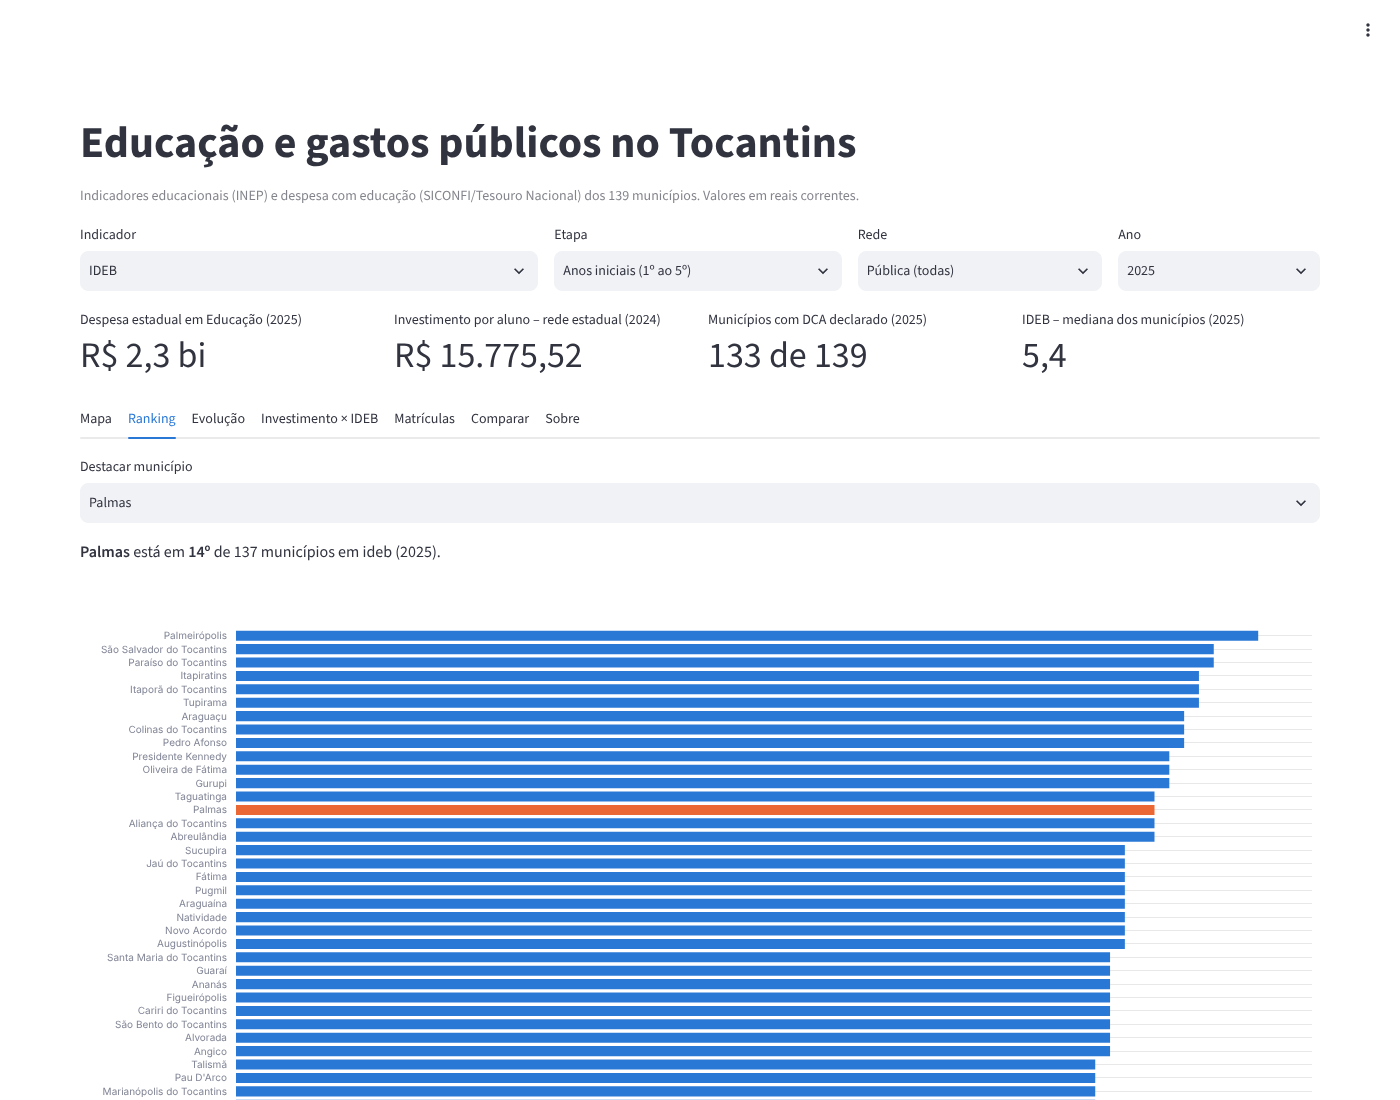
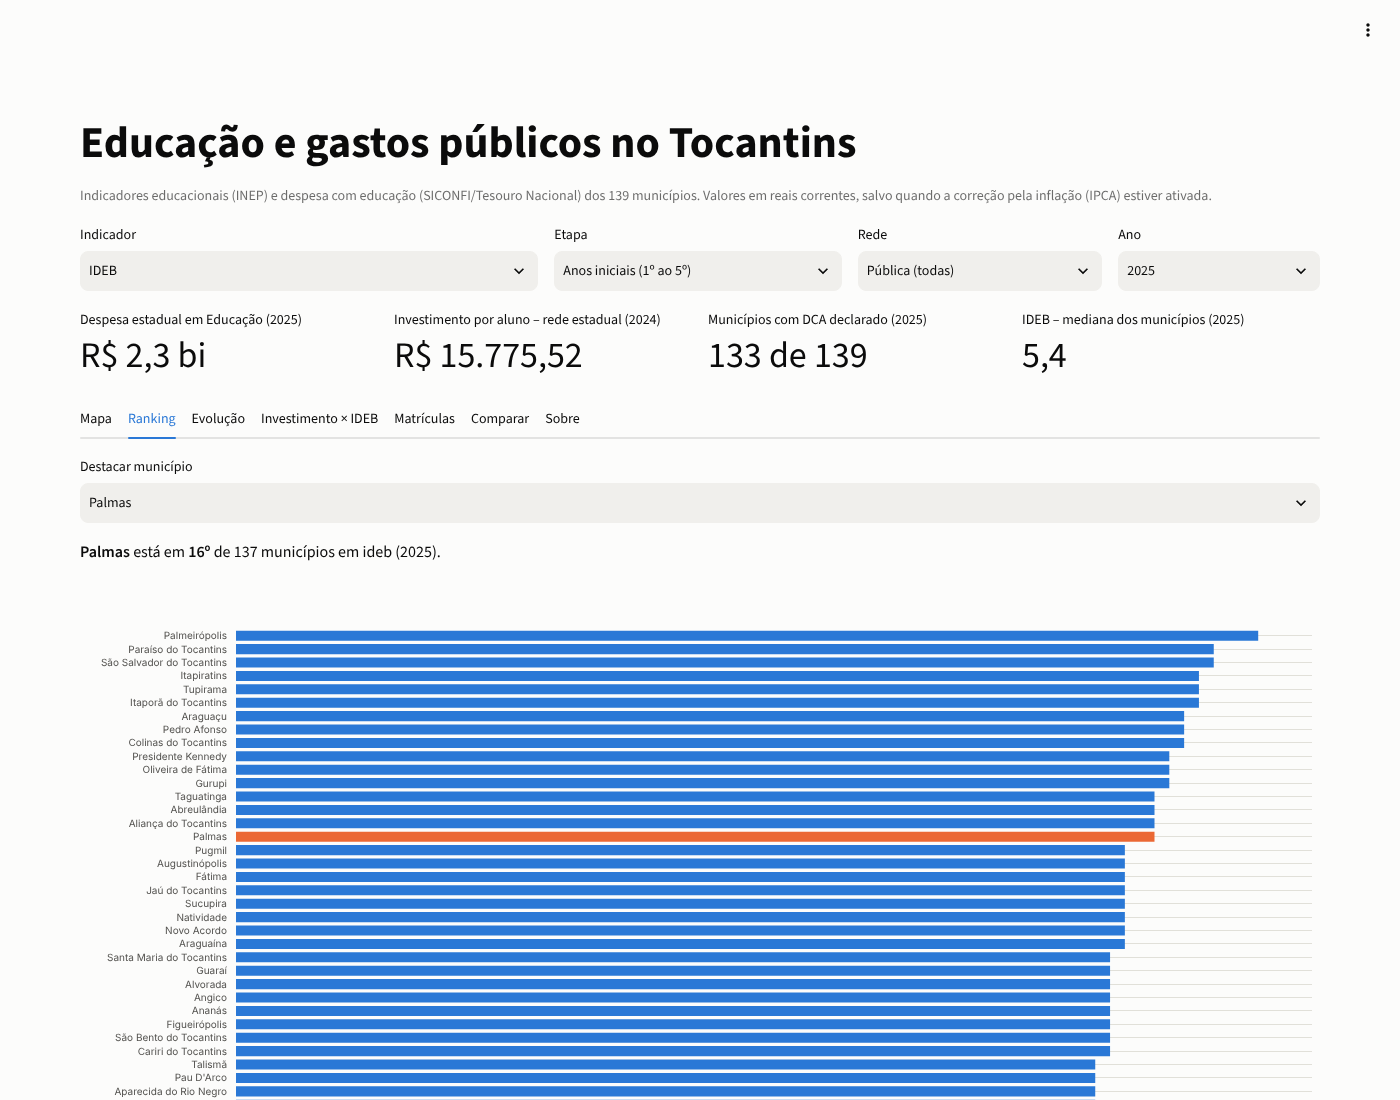
feat(painel): modo escuro com cores validadas
- app/tema.py: paletas clara e escura (categóricas em ordem fixa, rampa
  sequencial com âncora invertida no escuro, tintas e grades por modo),
  validadas com o validador de paletas
- painel lê st.context.theme e aplica o tema em todos os gráficos; mapa com
  fundo MapLibre na cor da superfície (sem tiles externos)
- .streamlit/config.toml com superfícies e tintas por modo
- rótulos dentro das barras em 19 px negrito (o azul claro tem 4,46:1)
- capturas nos dois modos; testes de contraste e da rampa

Claude-Session: https://claude.ai/code/session_01RJwzVpxwH6RxEcpT1TuGAa

diff --git a/app/painel.py b/app/painel.py
@@ -17,14 +17,21 @@ sys.path.insert(0, str(Path(__file__).parent))
 
 import dados
 import indicadores as ind
+import tema
 
 st.set_page_config(page_title="Educação no Tocantins", page_icon="📊", layout="wide")
 
-# Paleta: sequencial azul para magnitude; categóricas em ordem fixa.
-AZUL_SEQUENCIAL = ["#cde2fb", "#9ec5f4", "#6da7ec", "#3987e5", "#256abf", "#184f95", "#0d366b"]
-SERIE_1, SERIE_2, SERIE_3, SERIE_4 = "#2a78d6", "#eb6834", "#1baf7a", "#eda100"
-CINZA = "#b9b8b2"
-CORES_REDE = {"federal": SERIE_1, "estadual": SERIE_2, "municipal": SERIE_3, "privada": SERIE_4}
+# Cores do modo ativo (claro/escuro), validadas em app/tema.py.
+T = tema.para(getattr(st.context.theme, "type", None))
+SERIE_1, SERIE_2, SERIE_3, SERIE_4 = T.serie
+CINZA = T.neutro
+CORES_REDE = T.cores_rede
+#: Estilo MapLibre só com fundo na cor da superfície (sem tiles externos).
+ESTILO_MAPA = {
+    "version": 8,
+    "sources": {},
+    "layers": [{"id": "fundo", "type": "background", "paint": {"background-color": T.superficie}}],
+}
 
 
 def layout(fig: go.Figure, altura: int = 420) -> go.Figure:
@@ -32,8 +39,10 @@ def layout(fig: go.Figure, altura: int = 420) -> go.Figure:
         height=altura,
         margin={"l": 8, "r": 8, "t": 48, "b": 8},
         separators=",.",
-        font={"family": "Inter, system-ui, sans-serif", "size": 13},
+        font={"family": "Inter, system-ui, sans-serif", "size": 13, "color": T.texto},
         hoverlabel={"font_size": 13},
+        paper_bgcolor="rgba(0,0,0,0)",
+        plot_bgcolor="rgba(0,0,0,0)",
         legend={
             "orientation": "h",
             "y": 1.02,
@@ -41,10 +50,15 @@ def layout(fig: go.Figure, altura: int = 420) -> go.Figure:
             "x": 0,
             "title": None,
             "traceorder": "normal",
+            "font": {"color": T.texto_secundario},
         },
     )
-    fig.update_xaxes(showgrid=False, linewidth=1, linecolor="rgba(128,128,128,.35)")
-    fig.update_yaxes(gridcolor="rgba(128,128,128,.18)", gridwidth=1, zeroline=False)
+    fig.update_xaxes(
+        showgrid=False, linewidth=1, linecolor=T.eixo, tickfont={"color": T.texto_secundario}
+    )
+    fig.update_yaxes(
+        gridcolor=T.grade, gridwidth=1, zeroline=False, tickfont={"color": T.texto_secundario}
+    )
     return fig
 
 
@@ -147,17 +161,24 @@ with abas[0]:
         geojson=d["geojson"],
         locations="cod_municipio",
         color="valor",
-        color_continuous_scale=AZUL_SEQUENCIAL,
+        color_continuous_scale=list(T.sequencial),
         hover_name="nome_municipio",
         hover_data={"cod_municipio": False, "valor": definicao.formato_hover},
         labels={"valor": definicao.rotulo_curto},
-        map_style="white-bg",  # sem mapa de fundo: nenhum serviço externo de tiles
+        map_style="white-bg",  # trocado abaixo pelo fundo do tema; sem tiles externos
         center={"lat": -10.2, "lon": -48.3},
         zoom=5.6,
         opacity=0.95,
     )
-    fig.update_traces(marker_line_width=0.6, marker_line_color="white")
-    fig.update_layout(coloraxis_colorbar={"title": None, "thickness": 12})
+    fig.update_traces(marker_line_width=0.6, marker_line_color=T.superficie)
+    fig.update_layout(map_style=ESTILO_MAPA)
+    fig.update_layout(
+        coloraxis_colorbar={
+            "title": None,
+            "thickness": 12,
+            "tickfont": {"color": T.texto_secundario},
+        }
+    )
     sufixo = f" — valores corrigidos pelo IPCA, R$ de {ano_base}" if valores_reais else ""
     st.subheader(f"{indicador} em {ano}{sufixo}")
     st.plotly_chart(layout(fig, 760), width="stretch")
@@ -189,7 +210,7 @@ with abas[1]:
         abaixo = int((ordenado["valor"] < definicao.referencia).sum())
         fig.add_vline(
             x=definicao.referencia,
-            line={"color": "#52514e", "width": 1.5},
+            line={"color": T.texto_secundario, "width": 1.5},
             annotation_text=f"mínimo legal: {ind.numero(definicao.referencia, 0)}%",
             annotation_position="top",
         )
@@ -264,7 +285,7 @@ with abas[3]:
                         "color": cor,
                         "size": tamanho,
                         "opacity": 0.85,
-                        "line": {"width": 1.5, "color": "white"},
+                        "line": {"width": 1.5, "color": T.superficie},
                     },
                     hovertemplate=(
                         "%{text}<br>R$ %{x:,.0f} por aluno<br>IDEB %{y:.1f}<extra></extra>"
@@ -306,16 +327,19 @@ with abas[4]:
                 y=[""],
                 orientation="h",
                 name=r.capitalize(),
-                marker={"color": CORES_REDE[r], "line": {"width": 2, "color": "white"}},
+                marker={"color": CORES_REDE[r], "line": {"width": 2, "color": T.superficie}},
                 hovertemplate=(
                     f"{r.capitalize()}: {ind.numero(valor)} matrículas "
                     f"({ind.numero(100 * participacao, 1)}%)<extra></extra>"
                 ),
                 # rótulo direto só nos segmentos largos o bastante para lê-lo
-                text=[f"{ind.numero(100 * participacao, 0)}%" if participacao >= 0.08 else ""],
+                text=[
+                    f"<b>{ind.numero(100 * participacao, 0)}%</b>" if participacao >= 0.08 else ""
+                ],
                 textposition="inside",
                 insidetextanchor="middle",
-                textfont={"color": "#0b0b0b", "size": 14},
+                # texto grande e em negrito: a WCAG exige 3:1, atendido em todas as cores
+                textfont={"color": T.rotulo_em_preenchimento, "size": 19},
             )
         )
     fig.update_layout(

diff --git a/app/tema.py b/app/tema.py
@@ -1,0 +1,75 @@
+"""Cores do painel para os modos claro e escuro.
+
+Valores da paleta de referência de visualização (categórica em ordem fixa,
+sequencial azul, tinta e linhas de grade por modo). As quatro cores das redes
+foram validadas nos dois modos com o validador de paletas (faixa de
+luminosidade, croma, separação para daltonismo e contraste com o fundo):
+
+- claro, fundo #fcfcfb: tudo passa; verde-água e amarelo ficam abaixo de 3:1
+  de contraste, compensados por rótulos diretos e tabela no gráfico de matrículas;
+- escuro, fundo #1a1a19: tudo passa, inclusive contraste >= 3:1.
+
+O modo escuro não é uma inversão automática: cada cor tem o seu passo próprio
+na mesma rampa, e a escala sequencial inverte a âncora (valores baixos se
+aproximam do fundo escuro, valores altos ficam claros).
+"""
+
+from __future__ import annotations
+
+from dataclasses import dataclass
+
+
+@dataclass(frozen=True)
+class Tema:
+    nome: str
+    #: Categóricas em ordem fixa: slots 1 a 4 (azul, laranja, verde-água, amarelo).
+    serie: tuple[str, str, str, str]
+    #: Rampa sequencial do menor para o maior valor (mapa).
+    sequencial: tuple[str, ...]
+    #: Linha de referência neutra (mediana, mínimo legal).
+    neutro: str
+    texto: str
+    texto_secundario: str
+    grade: str
+    eixo: str
+    superficie: str
+    #: Texto escrito dentro de barras coloridas (usar grande e em negrito: o azul
+    #: do modo claro tem 4,46:1 com preto, abaixo dos 4,5:1 de texto normal).
+    rotulo_em_preenchimento: str
+
+    @property
+    def cores_rede(self) -> dict[str, str]:
+        return dict(zip(("federal", "estadual", "municipal", "privada"), self.serie, strict=True))
+
+
+CLARO = Tema(
+    nome="claro",
+    serie=("#2a78d6", "#eb6834", "#1baf7a", "#eda100"),
+    sequencial=("#cde2fb", "#9ec5f4", "#6da7ec", "#3987e5", "#256abf", "#184f95", "#0d366b"),
+    neutro="#898781",
+    texto="#0b0b0b",
+    texto_secundario="#52514e",
+    grade="#e1e0d9",
+    eixo="#c3c2b7",
+    superficie="#fcfcfb",
+    rotulo_em_preenchimento="#0b0b0b",
+)
+
+ESCURO = Tema(
+    nome="escuro",
+    serie=("#3987e5", "#d95926", "#199e70", "#c98500"),
+    # âncora invertida: o menor valor fica perto do fundo escuro
+    sequencial=("#104281", "#184f95", "#256abf", "#3987e5", "#6da7ec", "#9ec5f4", "#cde2fb"),
+    neutro="#898781",
+    texto="#f0efec",
+    texto_secundario="#c3c2b7",
+    grade="#2c2c2a",
+    eixo="#383835",
+    superficie="#1a1a19",
+    rotulo_em_preenchimento="#0b0b0b",
+)
+
+
+def para(tipo: str | None) -> Tema:
+    """Tema para o tipo informado pelo Streamlit (``"dark"``/``"light"``; padrão claro)."""
+    return ESCURO if tipo == "dark" else CLARO

diff --git a/tests/test_tema.py b/tests/test_tema.py
@@ -1,0 +1,50 @@
+import sys
+from pathlib import Path
+
+sys.path.insert(0, str(Path(__file__).resolve().parents[1] / "app"))
+
+import tema
+
+
+def _luminancia(hexa: str) -> float:
+    canais = [int(hexa[i : i + 2], 16) / 255 for i in (1, 3, 5)]
+    lineares = [c / 12.92 if c <= 0.04045 else ((c + 0.055) / 1.055) ** 2.4 for c in canais]
+    return 0.2126 * lineares[0] + 0.7152 * lineares[1] + 0.0722 * lineares[2]
+
+
+def _contraste(a: str, b: str) -> float:
+    claro, escuro = sorted((_luminancia(a), _luminancia(b)), reverse=True)
+    return (claro + 0.05) / (escuro + 0.05)
+
+
+def test_para_escolhe_tema_e_padrao_claro():
+    assert tema.para("dark") is tema.ESCURO
+    assert tema.para("light") is tema.CLARO
+    assert tema.para(None) is tema.CLARO
+
+
+def test_rampa_sequencial_inverte_a_ancora_no_escuro():
+    claro = [_luminancia(c) for c in tema.CLARO.sequencial]
+    escuro = [_luminancia(c) for c in tema.ESCURO.sequencial]
+    assert claro == sorted(claro, reverse=True)  # maior valor = mais escuro sobre fundo claro
+    assert escuro == sorted(escuro)  # maior valor = mais claro sobre fundo escuro
+
+
+def test_cores_das_redes_seguem_a_ordem_fixa():
+    for t in (tema.CLARO, tema.ESCURO):
+        assert list(t.cores_rede) == ["federal", "estadual", "municipal", "privada"]
+        assert list(t.cores_rede.values()) == list(t.serie)
+
+
+def test_series_do_escuro_tem_contraste_minimo_com_o_fundo():
+    for cor in tema.ESCURO.serie:
+        assert _contraste(cor, tema.ESCURO.superficie) >= 3
+
+
+def test_rotulo_dentro_das_barras_e_legivel():
+    # O painel escreve esses rótulos com 19 px em negrito ("texto grande" na WCAG,
+    # mínimo 3:1). Com texto normal (4,5:1) o azul do modo claro não passaria:
+    # 4,46:1 com preto e 4,42:1 com branco.
+    for t in (tema.CLARO, tema.ESCURO):
+        for cor in t.serie:
+            assert _contraste(t.rotulo_em_preenchimento, cor) >= 3

diff --git a/README.md b/README.md
@@ -83,7 +83,11 @@ matrículas por rede e comparação entre dois municípios.
 | **Evolução temporal** | **Matrículas por rede** |
 | ![Evolução](docs/img/painel-evolucao.png) | ![Matrículas](docs/img/painel-matriculas.png) |
 
-Capturas geradas com Playwright (`scripts/capturar_telas.cjs`) a partir dos dados reais.
+O painel segue o tema claro/escuro do sistema (ou ⋮ → *Settings*), com cores validadas para cada modo (`app/tema.py`):
+
+![Mapa do IDEB no modo escuro](docs/img/painel-mapa-escuro.png)
+
+Capturas geradas com Playwright (`scripts/capturar_telas.cjs`, com `escuro` como 3º argumento para o modo escuro) a partir dos dados reais.
 
 | Variável | Padrão | Uso |
 |---|---|---|
